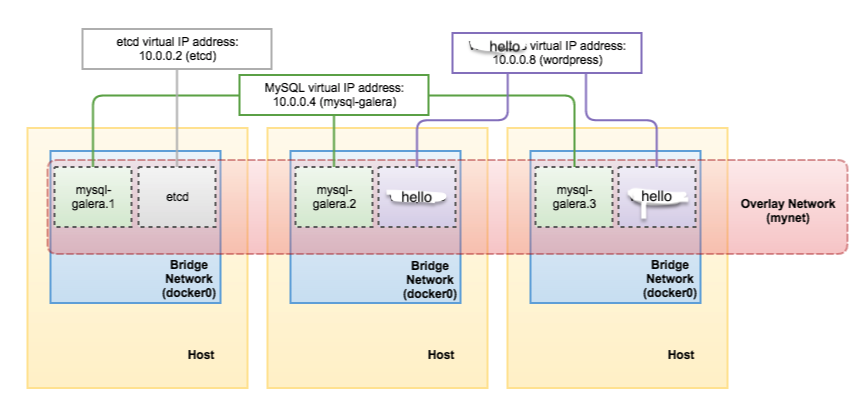
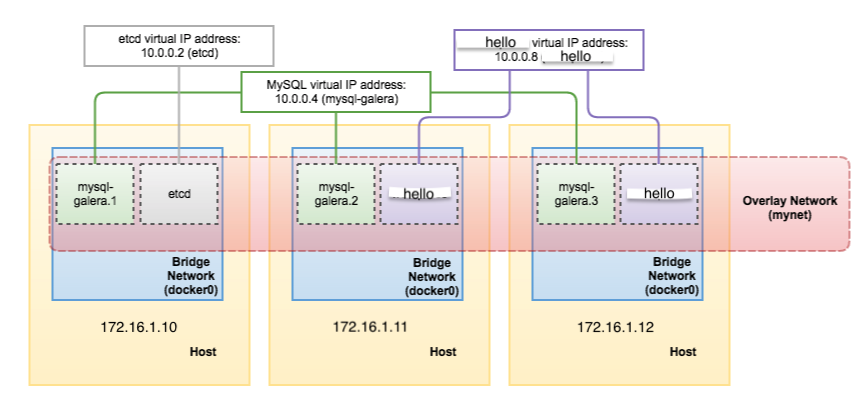
docker network

diff --git a/_posts/2018-08-19- docker network.md b/_posts/2018-08-19- docker network.md
@@ -194,17 +194,4 @@ $ docker service create \
 
 ![swarm network model](https://raw.githubusercontent.com/objcoding/objcoding.github.io/master/images/d_network4.png)
 
-swarm 集群的内部会为容器的各个节点之间负责负载均衡的管理，无需我们去操心了，如上如图三台服务器，无论我们访问的哪台服务器，都可以访问到 docker 各个可用节点中。
-
-
-
- 
-
-
-
-
-
-
-
-
-
+swarm 集群的内部会为容器的各个节点之间负责负载均衡的管理，无需我们去操心了，如上如图三台服务器，无论我们访问的哪台服务器，都可以访问到 docker 各个可用节点中，比如访问 172.16.1.11:8080，也可以通过 swarm 集群的负载均衡转发到 172.16.1.12:8080。
